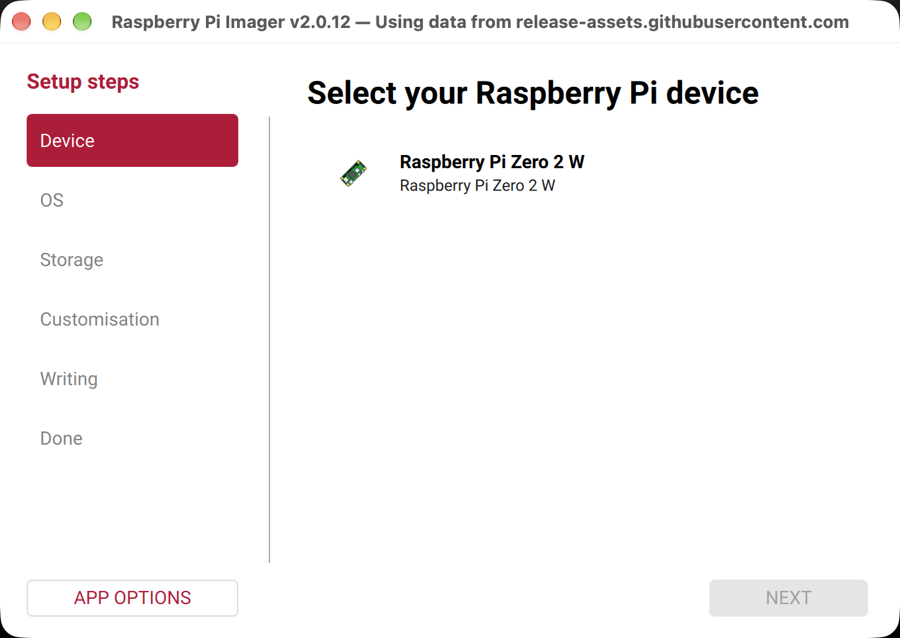
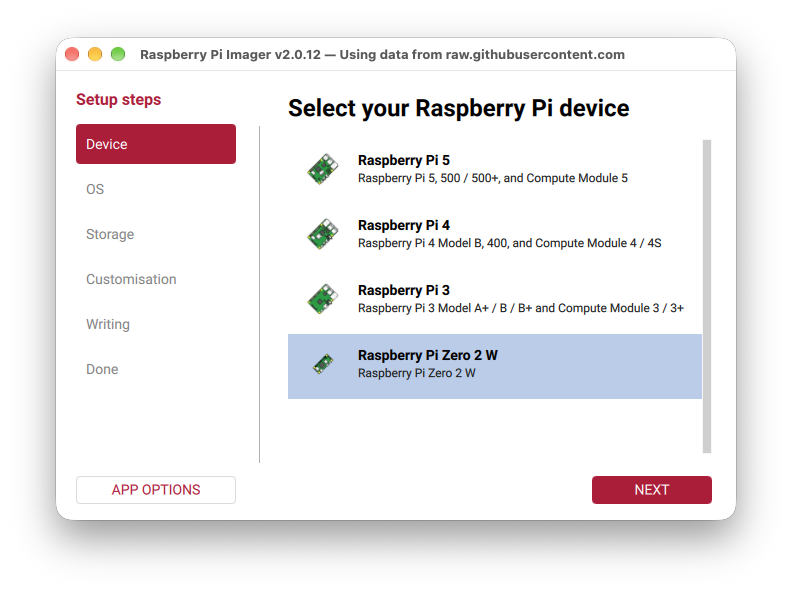
Docs: end-user upgrade steps, new Imager screenshots, status 0.2.3

diff --git a/README.md b/README.md
@@ -4,7 +4,7 @@ A Raspberry Pi (Zero 2 W, 3, 4 or 5) that presents an HF radio to a tablet or co
 
 On top of the audio transport the bridge is a field appliance: it boots as its own Wi-Fi network with a captive portal, keeps its card read-only so a power pull is safe, walks a rig to ready with a setup wizard, keeps transmit locked until a safety ladder has passed, and alerts a phone and the status LED when something that was working stops.
 
-Status: 0.2.2 is published as a pre-release (2026-10-29); it replaces 0.2.1. Image vector-bridge-0.2.2 is the latest captured image; interim-fb72fbf (2026-10-23) was the last one through acceptance. The iPad client is VectorComm, in its own repo.
+Status: 0.2.3 is published as a pre-release (2026-11-10). Image vector-bridge-0.2.3 is the latest captured image and passed acceptance on a Pi 4 B (2026-11-10). The iPad client is VectorComm, in its own repo.
 
 ## Documents
 
@@ -89,6 +89,15 @@ You need a Raspberry Pi (Zero 2 W, 3, 4 or 5; the Pi 5 is not tested yet), a mic
 7. Join the new network with the new passphrase and open `http://vectorbridge/`. The first change you save asks you to create an admin PIN. Then set up your radio (`DOCS/setup-wizard.md`).
 
 `vector-bridge-wifi.txt` on the card's boot partition always holds the current network name and passphrase; any computer can read it. A forgotten PIN or passphrase can also be reset from an HDMI monitor and USB keyboard (`DOCS/field-network.md`, "Admin PIN and the console").
+
+## End user: upgrade to a new release
+
+There is no in-place update yet. To upgrade, write the new release to a card the same way as the first time (steps 1 to 5 above). Writing a card erases everything on it, so the bridge starts again as if it were new: its network name and passphrase, Wi-Fi country, saved home networks, admin PIN, radio setup, kits and levels (receive and transmit gain, transmit time limit), SSH setting and keys are all gone. Nothing carries over from the old card, and there is no settings export yet. Only the display theme you picked is kept, because it is stored on your phone.
+
+1. Before you upgrade, write down what you will set again: for each kit in `http://vectorbridge/`, the radio settings and the levels; your Wi-Fi country; the name and password of each home network the bridge joins; and any alert settings you changed. Your bridge's own network name and passphrase are in `vector-bridge-wifi.txt` on the old card's boot partition.
+2. If you have a spare microSD card, write the new release to it and keep the old card as it is. If the new one gives you trouble, put the old card back in.
+3. Boot the new card and follow steps 6 and 7 above. Give the bridge the same network name and passphrase as before, so your phone and tablet join it as they did before.
+4. Create the admin PIN again and set up your radio and kits again. Apps that log in to the bridge, such as VectorComm and VectorCable, need logging in again with the new PIN.
 
 ## Mac: develop and test without hardware
 

diff --git a/DOCS/image-build.md b/DOCS/image-build.md
@@ -168,9 +168,11 @@ password. Until then the console's command line has no password for `sudo`.
          vector-bridge-VERSION.img.xz vector-bridge-VERSION.img.xz.sha256 \
          vector-bridge-VERSION-packages.txt ../imager/os_list.json ../imager/vector-bridge-icon.png
 
-   Check it from the Mac (ROADMAP 4.3): `"/Applications/Raspberry Pi Imager.app/Contents/MacOS/rpi-imager"
-   --repo https://github.com/eusef/vector-bridge/releases/download/vVERSION/os_list.json` lists
-   VectorBridge with the image size; write a card from it and run "Acceptance" below.
+   Check it from the Mac (ROADMAP 4.3): `open "rpi-imager://open?repo=https://raw.githubusercontent.com/eusef/vector-bridge/main/imager/os_list.json"`
+   (the link the README gives users; it follows public `main`) lists VectorBridge VERSION with the image
+   size; write a card from it and run "Acceptance" below. Public `main` carries the new `os_list.json`
+   a few minutes before the release assets exist, so that link points at a missing image until
+   `gh release create` finishes; this gap is accepted (2026-11-11).
 
 ### Rebuilding from an existing golden card
 

diff --git a/DOCS/write-the-image.md b/DOCS/write-the-image.md
@@ -17,7 +17,10 @@ rpi-imager://open?repo=https://raw.githubusercontent.com/eusef/vector-bridge/mai
 ```
 
 The browser asks whether to open Raspberry Pi Imager: allow it. Imager then asks "Switch to a custom
-repository?": press **Switch repository**.
+repository?": press **Switch repository**. (**Cancel** is the highlighted button, so do not just press
+Enter.)
+
+![Switch repository dialog](images/imager/00-switch-repository.png)
 
 Or paste one command into a terminal instead:
 
@@ -38,6 +41,10 @@ Or paste one command into a terminal instead:
   ```
   xdg-open "rpi-imager://open?repo=https://raw.githubusercontent.com/eusef/vector-bridge/main/imager/os_list.json"
   ```
+
+The browser link and the Mac command are tested in Safari, Chrome and Terminal. The Windows and Linux
+commands are not tested yet: if one does not work for you, please open an issue on GitHub saying what
+happened.
 
 The window title then says "Using data from raw.githubusercontent.com": that is GitHub's file host and
 is expected. If nothing opens, Imager is not installed or is older than 2.0.3 (or, on Linux, was
